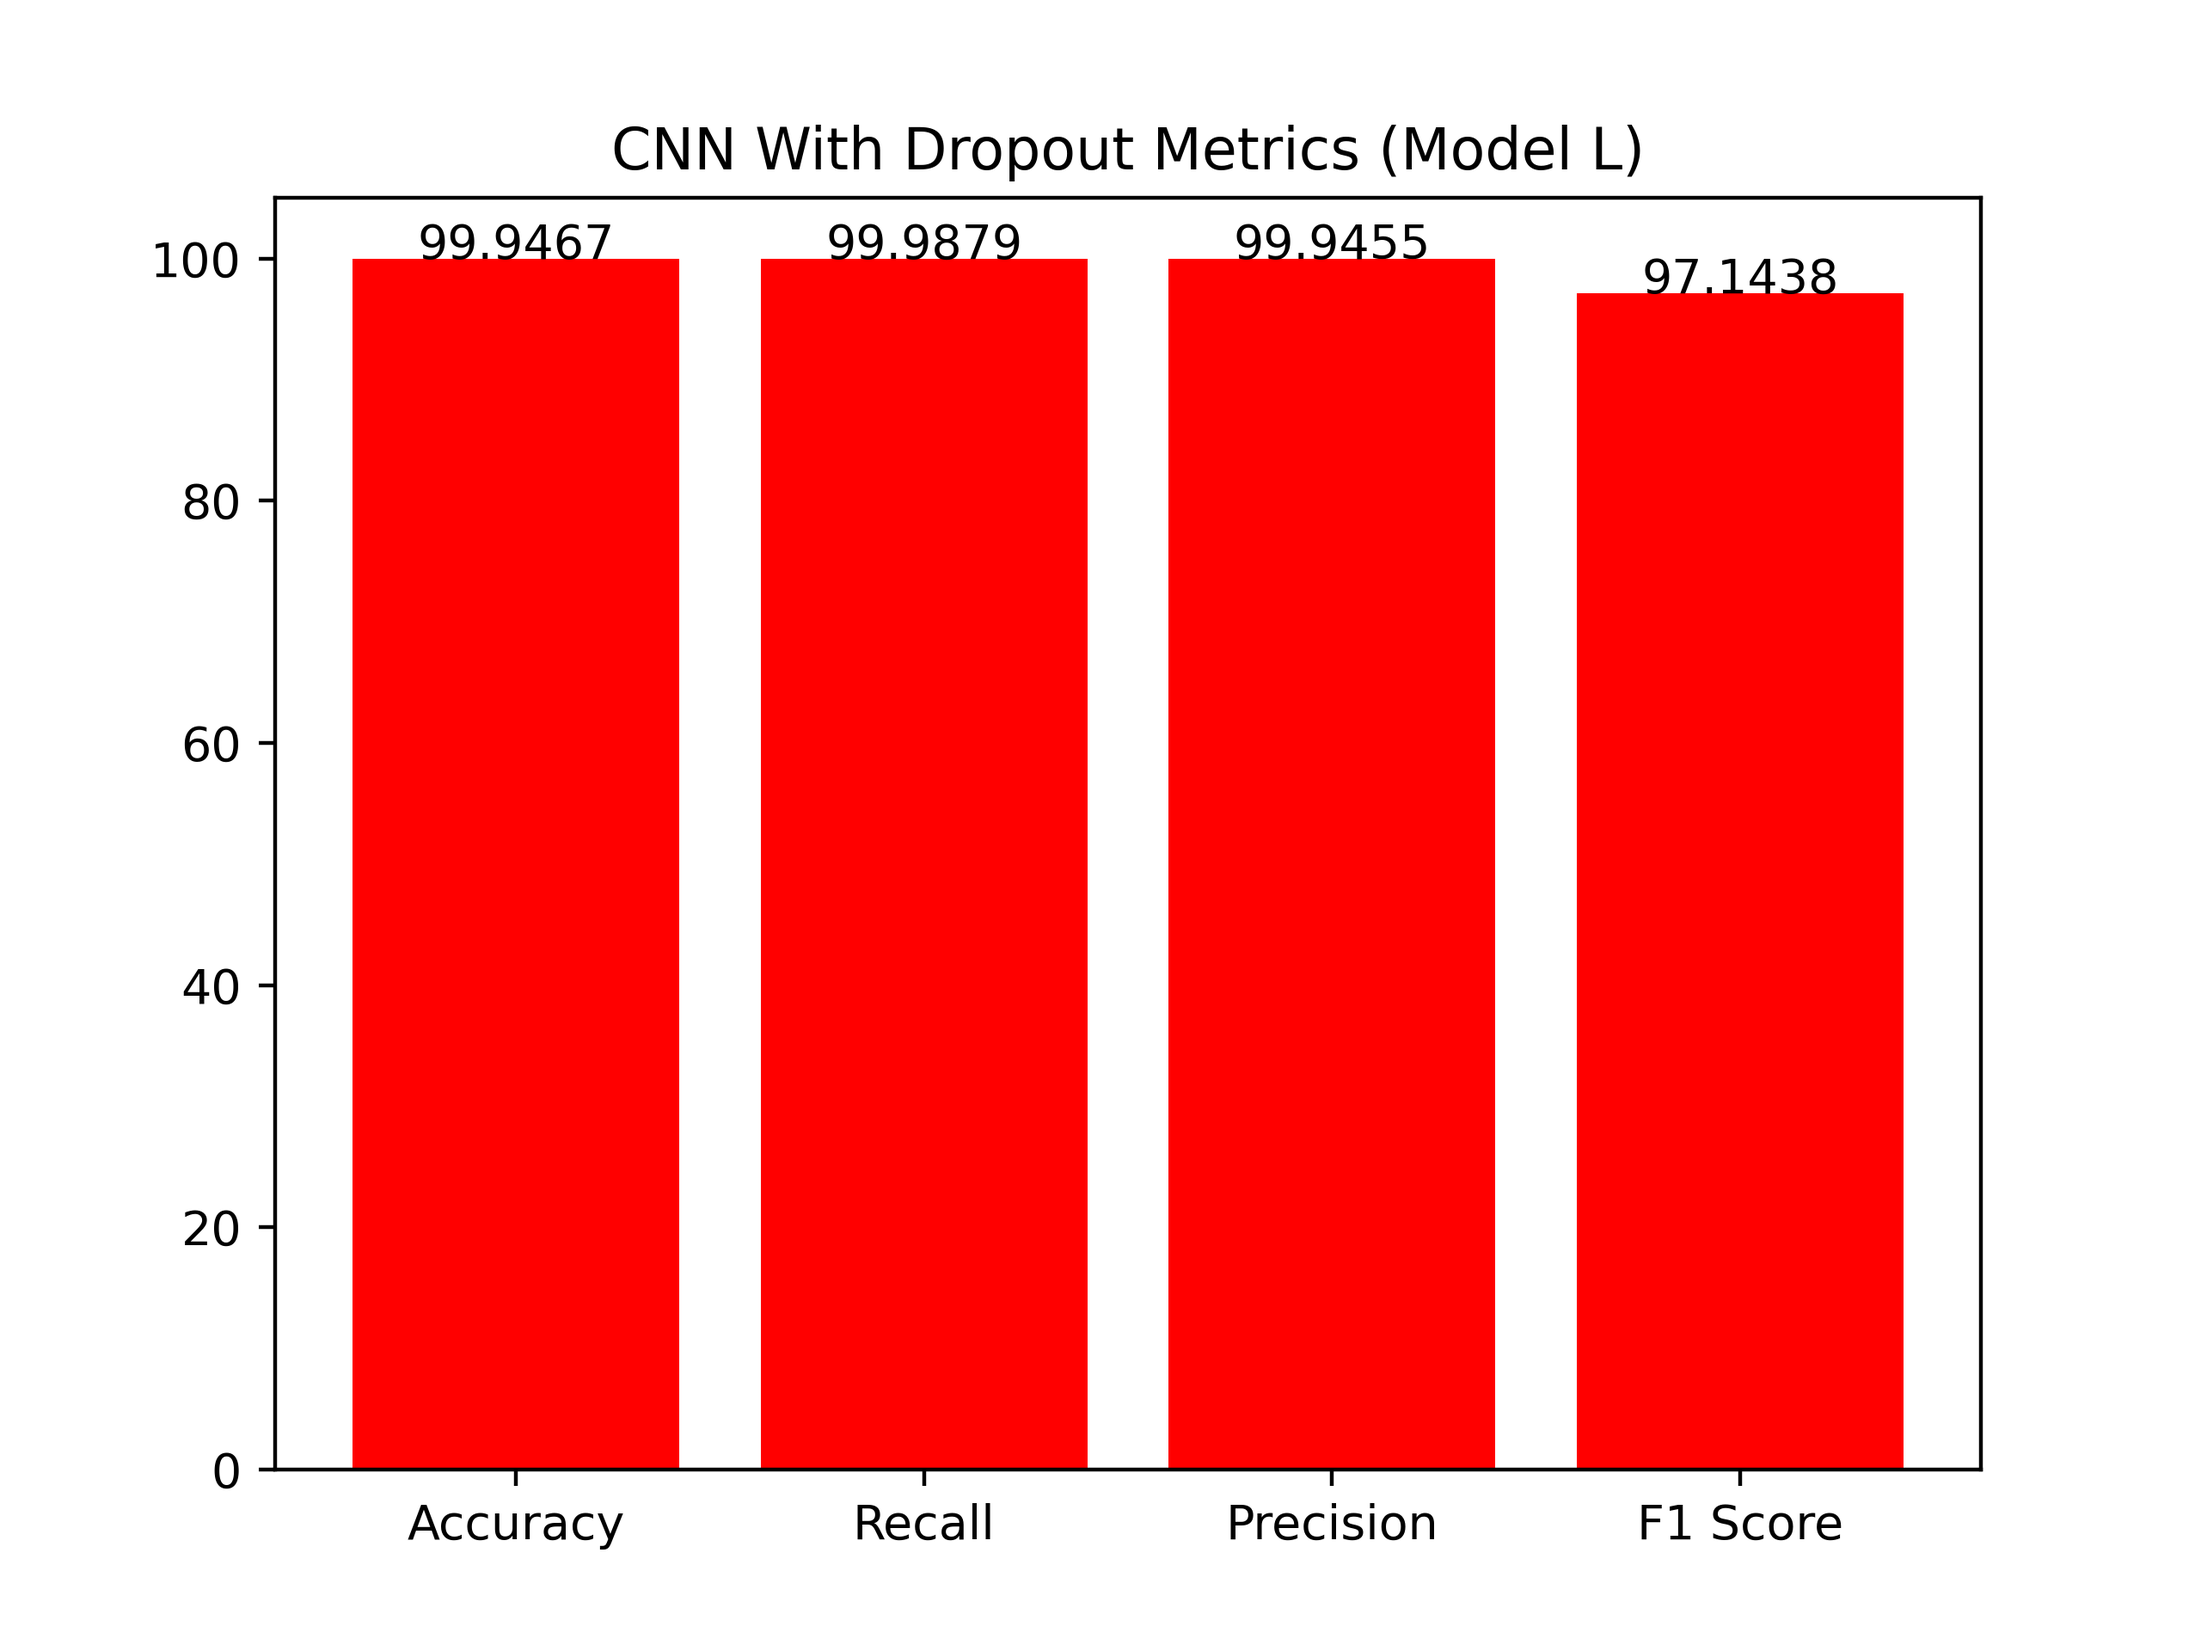
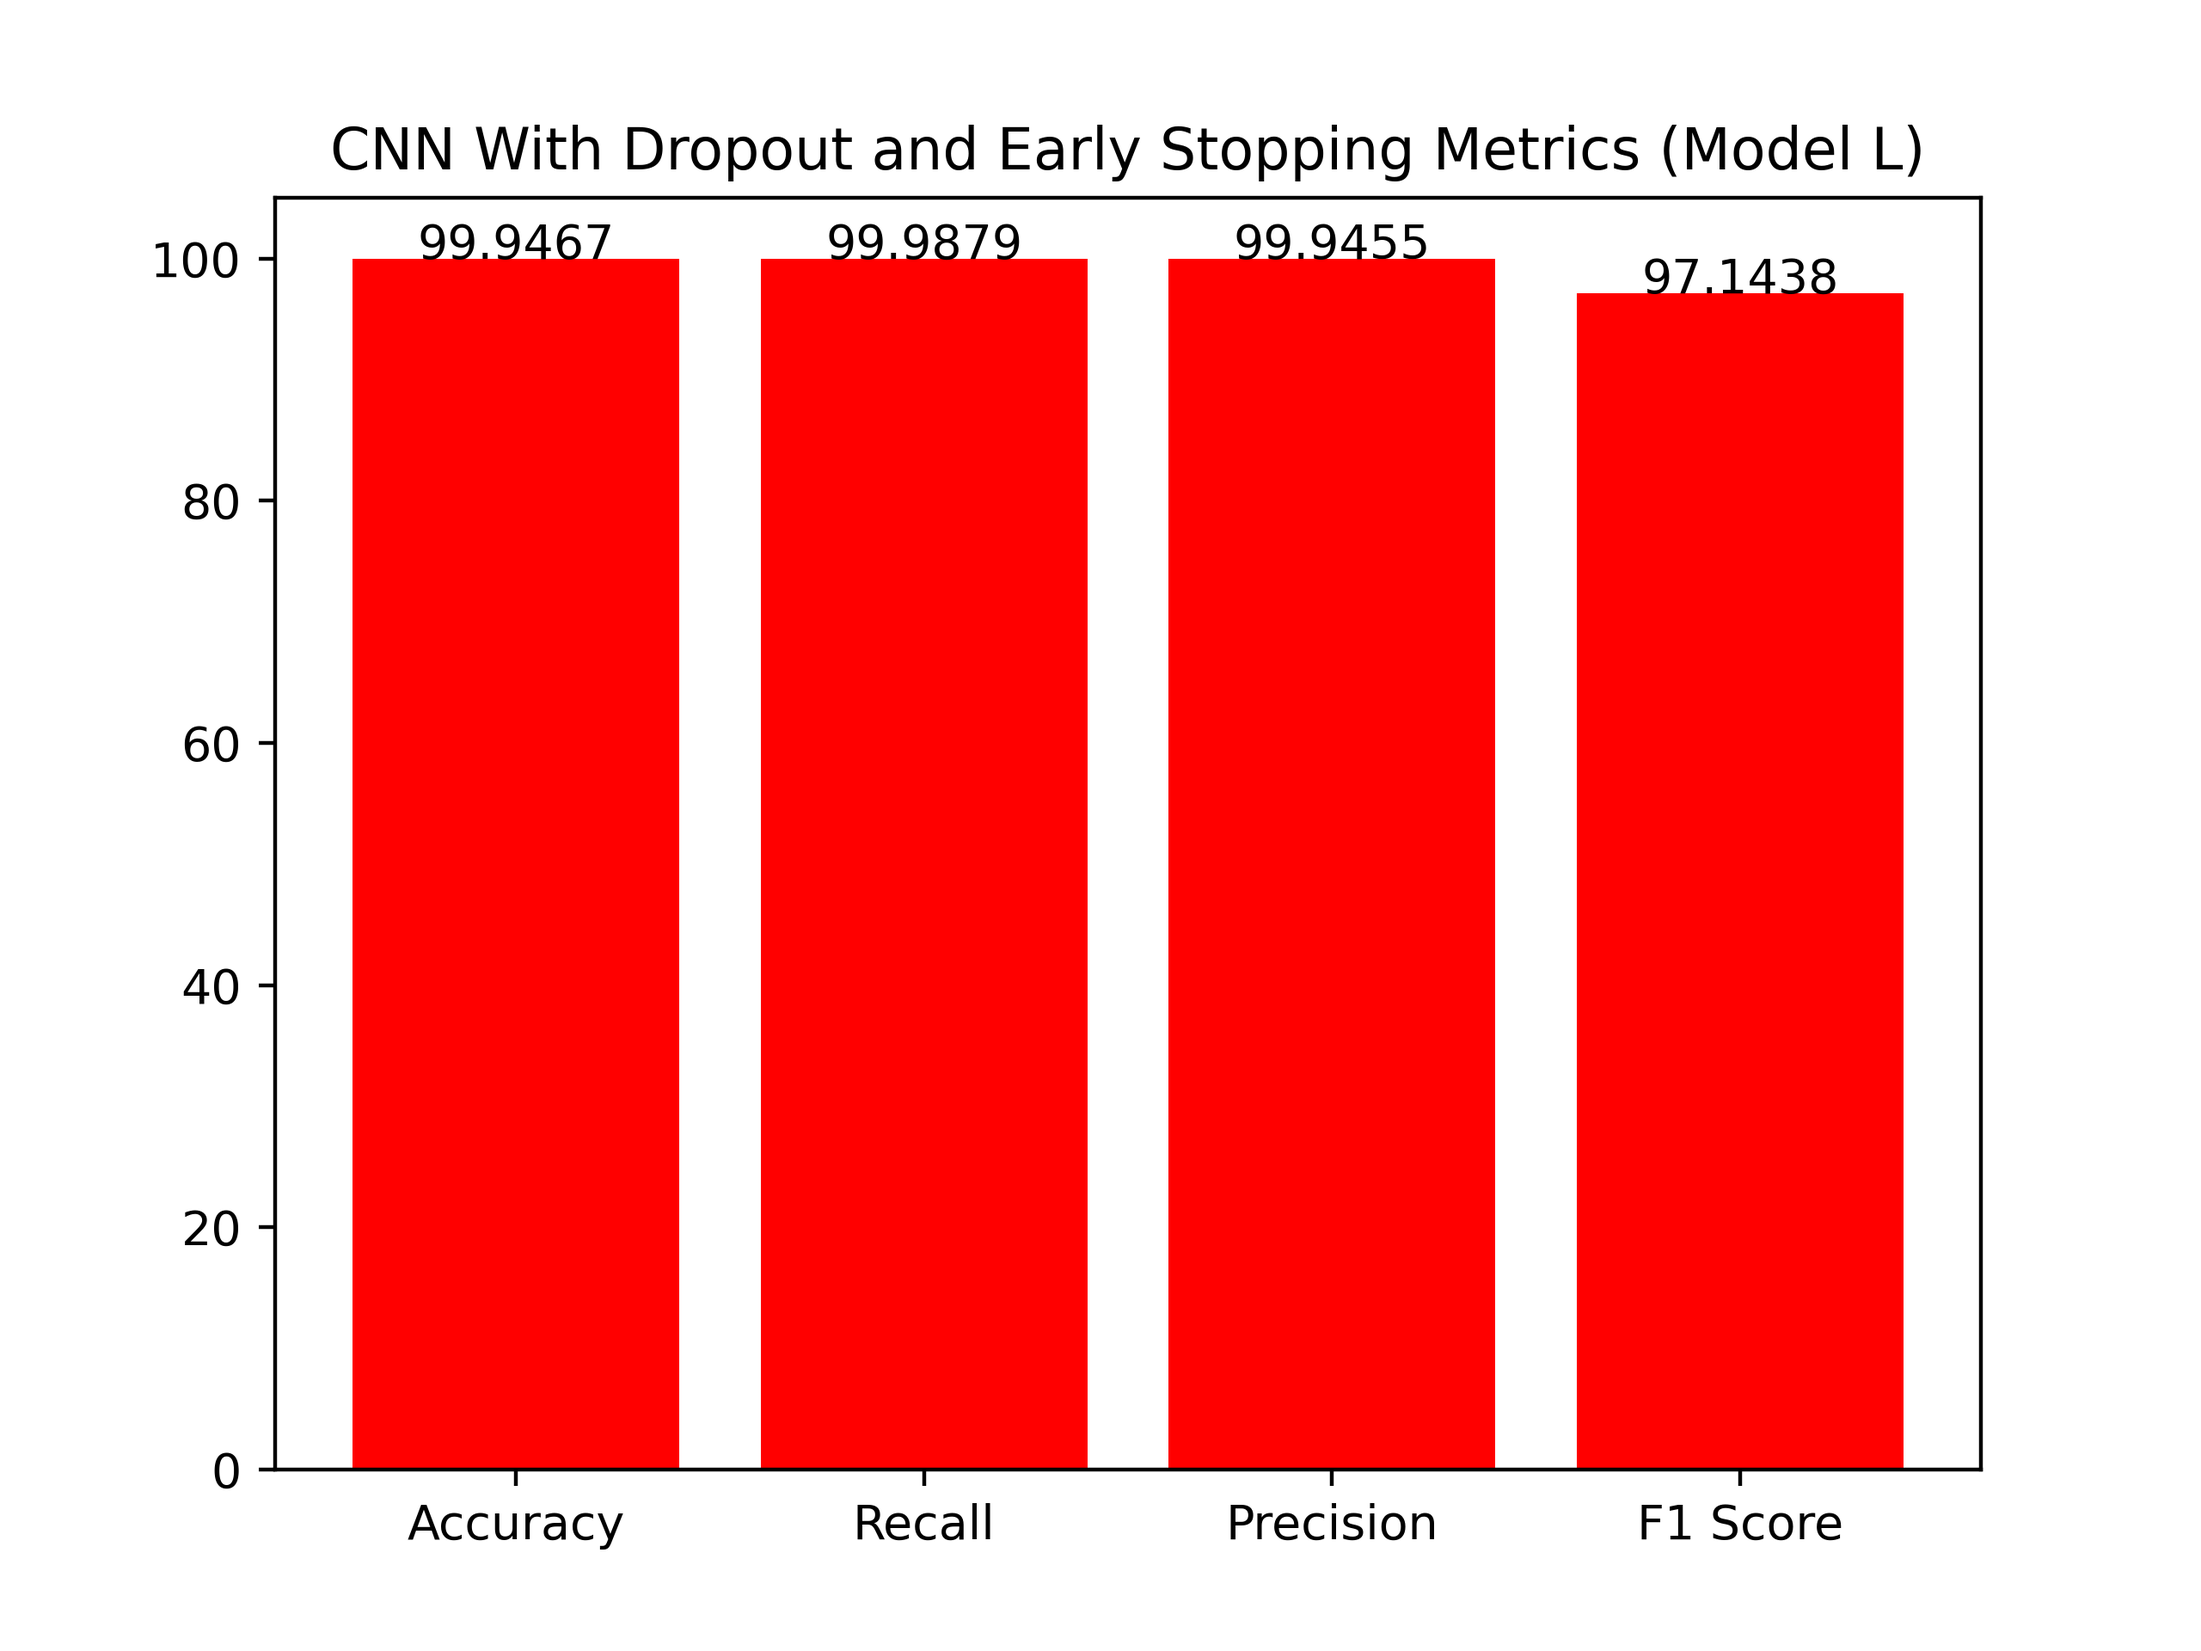
update cnn graph names

Changed region(s): [[0.1562, 0.0625, 0.875, 0.125]]

diff --git a/Metrics/Graphs/classifierGraphs.py b/Metrics/Graphs/classifierGraphs.py
@@ -172,7 +172,7 @@ values_cnn = list(cnn_data.values())
 x_cnn = list(cnn_data.keys())
 y_cnn = [round (value * 100, 4) for value in values_cnn]
 
-create_simple_bar_graph(x=x_cnn, y=y_cnn, value_labels=True, colour="Red", title="CNN With Dropout Metrics (Model L)", save_path="Metrics/Graphs/pngs/cnnMetricsWithDropout.png", dpi=400)
+create_simple_bar_graph(x=x_cnn, y=y_cnn, value_labels=True, colour="Red", title="CNN With Dropout and Early Stopping Metrics (Model L)", save_path="Metrics/Graphs/pngs/cnnMetricsWithDropout.png", dpi=400)
 
 # optimised CNN
 
